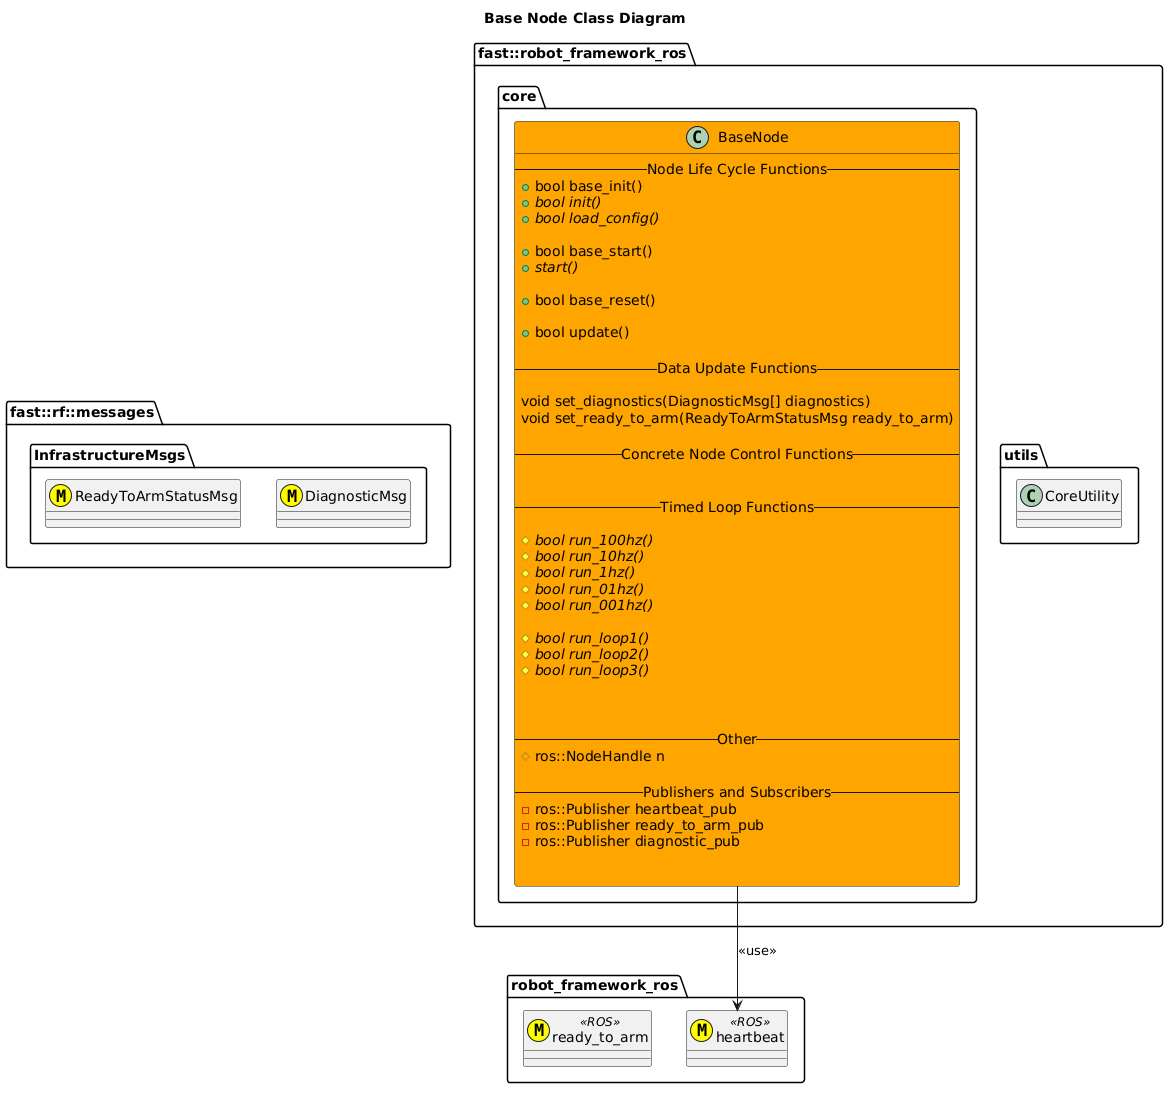
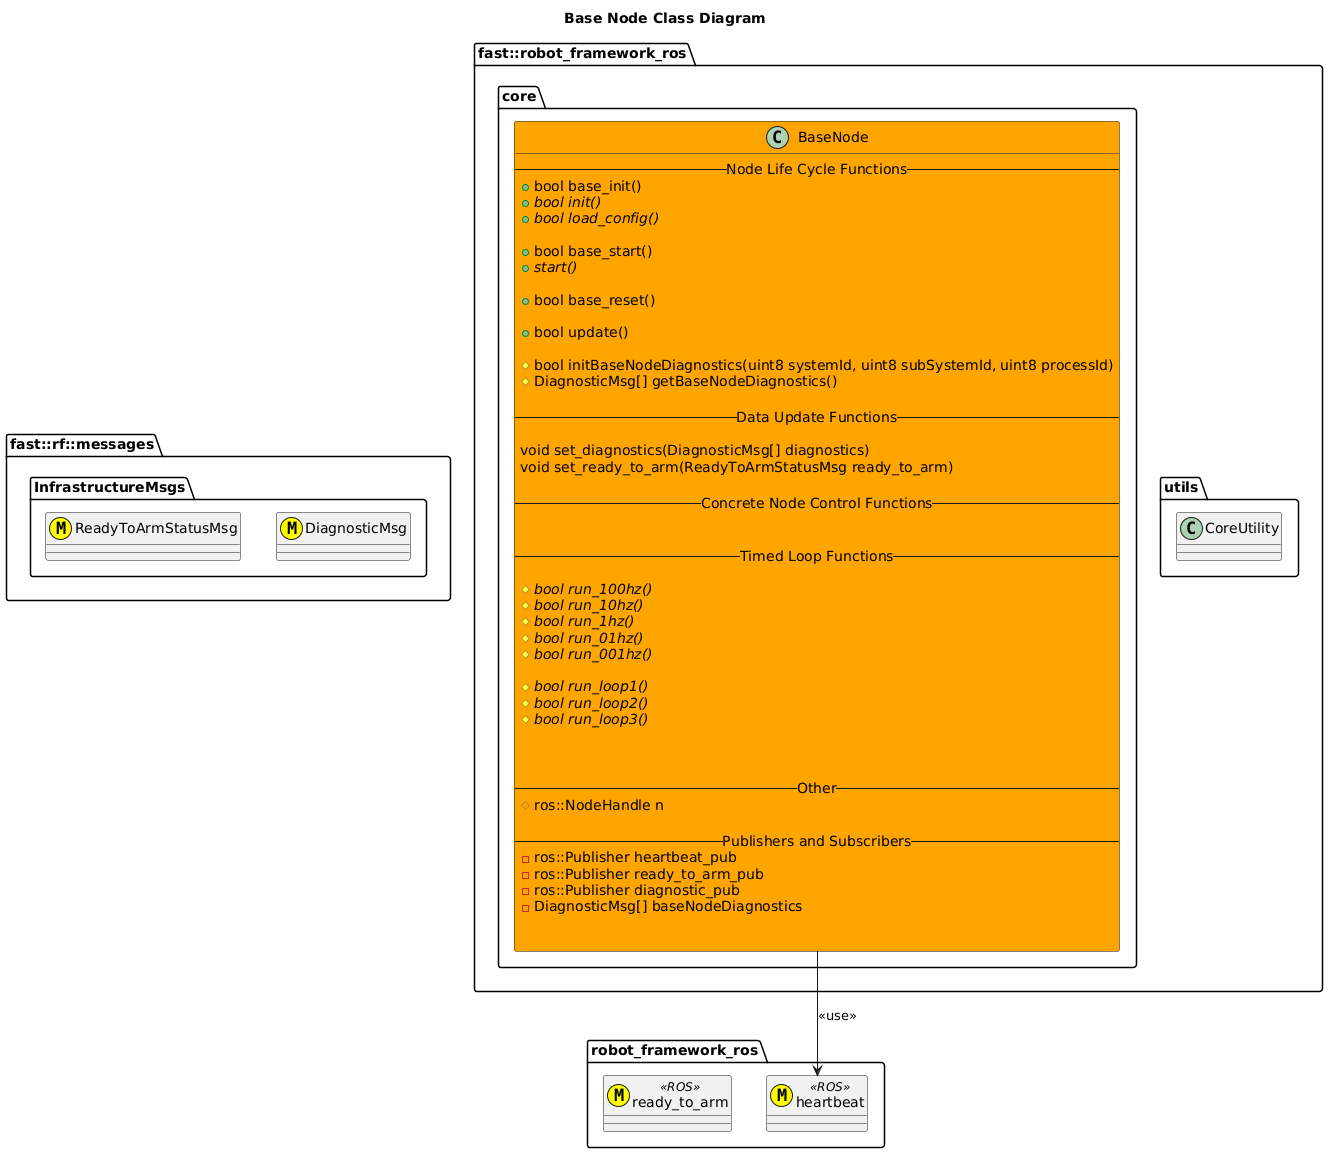
Looks like it's working ok.

Changed region(s): [[0.0, 0.0, 1.0, 0.9927], [0.5816, 0.6515, 0.6429, 0.6825]]

diff --git a/core/BaseNode/BaseNode.cpp b/core/BaseNode/BaseNode.cpp
@@ -1,7 +1,10 @@
 #include <Infrastructure/Logger.hpp>
+#include <mutex>
 #include <robot_framework_ros/BaseNode.hpp>
 #include <robot_framework_ros/utils/CoreUtility.hpp>
 #include <robot_framework_ros/utils/TranslateUtility.hpp>
+
+#include "RobotFrameworkDefinitions.hpp"
 namespace fast::rf_ros {
     std::string BaseNode::pretty() {
         std::string str = "Node State: " + fast::rf_ros::utils::CoreUtility::pretty(node_state);
@@ -64,6 +67,41 @@ namespace fast::rf_ros {
         std::string config_path = get_robotnamespace() + "config/" + system_id_str + "/" + subsystem_id_str + "/" +
                                   process_id_str + "/" + read_base_nodename();
         return config_path;
+    }
+    bool BaseNode::initBaseNodeDiagnostics(uint8_t systemId, uint8_t subSystemId, uint8_t processId) {
+        {
+            fast::rf::messages::InfrastructureMsgs::DiagnosticMsg diagnostic(
+                systemId, subSystemId, processId, fast::rf::DiagnosticDefinition::DiagnosticType::TIMING);
+            m_baseNodeDiagnostics.emplace(std::pair<fast::rf::DiagnosticDefinition::DiagnosticType,
+                                                    fast::rf::messages::InfrastructureMsgs::DiagnosticMsg>(
+                diagnostic.diagnosticType, diagnostic));
+        }
+        return true;
+    }
+    bool BaseNode::checkTimingDiagnostic(std::string loopName, double runTimeSec, uint64_t cycleCount,
+                                         double expectedRate) {
+        std::lock_guard<std::mutex> guard(m_timingDiagnosticMutex);
+        double actualLoopRate = (double)(cycleCount) / runTimeSec;
+        double slowDownFactor = expectedRate / actualLoopRate;
+        if (slowDownFactor > ERROR_LOOPRATE_SLOWDOWN_FACTOR) {
+            m_baseNodeDiagnostics[fast::rf::DiagnosticDefinition::DiagnosticType::TIMING].level =
+                fast::rf::Level::ERROR;
+            m_baseNodeDiagnostics[fast::rf::DiagnosticDefinition::DiagnosticType::TIMING].diagnosticMessage =
+                fast::rf::DiagnosticDefinition::DiagnosticMessage::DIAGNOSTIC_FAILED;
+            m_baseNodeDiagnostics[fast::rf::DiagnosticDefinition::DiagnosticType::TIMING].description =
+                "Loop: " + loopName + " is Slow.  Expected Rate: " + std::to_string(expectedRate) +
+                " Actual: " + std::to_string(actualLoopRate) + " Slowdown: " + std::to_string(slowDownFactor) + "X!";
+            return false;
+        } else if (slowDownFactor > WARN_LOOPRATE_SLOWDOWN_FACTOR) {
+            m_baseNodeDiagnostics[fast::rf::DiagnosticDefinition::DiagnosticType::TIMING].level = fast::rf::Level::WARN;
+            m_baseNodeDiagnostics[fast::rf::DiagnosticDefinition::DiagnosticType::TIMING].diagnosticMessage =
+                fast::rf::DiagnosticDefinition::DiagnosticMessage::DIAGNOSTIC_FAILED;
+            m_baseNodeDiagnostics[fast::rf::DiagnosticDefinition::DiagnosticType::TIMING].description =
+                "Loop: " + loopName + " is Very Slow.  Expected Rate: " + std::to_string(expectedRate) +
+                " Actual: " + std::to_string(actualLoopRate) + " Slowdown: " + std::to_string(slowDownFactor) + "X!";
+            return false;
+        }
+        return true;
     }
     bool BaseNode::base_init() {
         bool status = request_node_statechange(robot_framework_ros::nodestate::STATE_INITIALIZING, false);
@@ -151,6 +189,10 @@ namespace fast::rf_ros {
     }
     bool BaseNode::base_start() {
         startTime = ros::Time::now();
+        if (m_baseNodeDiagnostics.size() == 0) {
+            fast::rf::Logger::logError("Base Node Diagnostics Not Initialized!");
+            return false;
+        }
         bool status = request_node_statechange(robot_framework_ros::nodestate::STATE_STARTING, false);
         last_100hz_timer = ros::Time::now();
         last_10hz_timer = ros::Time::now();
@@ -191,14 +233,14 @@ namespace fast::rf_ros {
         mtime = utils::CoreUtility::measure_time_diff(ros::Time::now(), last_10hz_timer);
         if (mtime >= 0.1) {  // 0.1 Seconds
             base_run_10hz();
-            m_loop10HzCyles++;
+            m_loop10HzCycles++;
             last_10hz_timer = ros::Time::now();
         }
 
         mtime = utils::CoreUtility::measure_time_diff(ros::Time::now(), last_1hz_timer);
         if (mtime >= 1.0) {  // 1.0 Seconds
             base_run_1hz();
-            m_loop1Cycles++;
+            m_loop1HzCycles++;
             last_1hz_timer = ros::Time::now();
         }
 
@@ -277,24 +319,50 @@ namespace fast::rf_ros {
 
         // Check Loop Rate for timing issues
         double runTimeSec = utils::CoreUtility::measure_time_diff(ros::Time::now(), startTime);
+        bool timingOk = true;
         uint16_t minLoopCountToWait = 5;
+        if (m_loop001HzCycles > minLoopCountToWait) {
+            timingOk &= checkTimingDiagnostic("loop001Hz", runTimeSec, m_loop001HzCycles, 0.01);
+        }
+        if (m_loop01HzCycles > minLoopCountToWait) {
+            timingOk &= checkTimingDiagnostic("loop01Hz", runTimeSec, m_loop01HzCycles, 0.1);
+        }
+        if (m_loop1HzCycles > minLoopCountToWait) {
+            timingOk &= checkTimingDiagnostic("loop1Hz", runTimeSec, m_loop1HzCycles, 1.0);
+        }
+        if (m_loop10HzCycles > minLoopCountToWait) {
+            timingOk &= checkTimingDiagnostic("loop10Hz", runTimeSec, m_loop10HzCycles, 10.0);
+        }
+        if (m_loop100HzCycles > minLoopCountToWait) {
+            timingOk &= checkTimingDiagnostic("loop100Hz", runTimeSec, m_loop100HzCycles, 100.0);
+        }
+        if (loop2_enabled == true) {
+            if (m_loop1Cycles > minLoopCountToWait) {
+                timingOk &= checkTimingDiagnostic("loop1", runTimeSec, m_loop1Cycles, loop1_rate);
+            }
+        }
         if (loop2_enabled == true) {
             if (m_loop2Cycles > minLoopCountToWait) {
-                double actualLoop2Rate = (double)(m_loop2Cycles) / runTimeSec;
-                double factorOff = loop2_rate / actualLoop2Rate;
-                if (factorOff > ERROR_LOOPRATE_SLOWDOWN_FACTOR) {
-                    fast::rf::Logger::logError("Expected Rate: " + std::to_string(loop2_rate) +
-                                               " Actual: " + std::to_string(actualLoop2Rate) +
-                                               " Factor: " + std::to_string(factorOff));
-                } else if (factorOff > WARN_LOOPRATE_SLOWDOWN_FACTOR) {
-                    fast::rf::Logger::logWarn("Expected Rate: " + std::to_string(loop2_rate) +
-                                              " Actual: " + std::to_string(actualLoop2Rate) +
-                                              " Factor: " + std::to_string(factorOff));
-                }
+                timingOk &= checkTimingDiagnostic("loop2", runTimeSec, m_loop2Cycles, loop2_rate);
             }
+        }
+        if (loop3_enabled == true) {
+            if (m_loop3Cycles > minLoopCountToWait) {
+                timingOk &= checkTimingDiagnostic("loop3", runTimeSec, m_loop3Cycles, loop3_rate);
+            }
+        }
+        if (timingOk) {
+            std::lock_guard<std::mutex> guard(m_timingDiagnosticMutex);
+            m_baseNodeDiagnostics[fast::rf::DiagnosticDefinition::DiagnosticType::TIMING].level =
+                fast::rf::Level::NOERROR;
+            m_baseNodeDiagnostics[fast::rf::DiagnosticDefinition::DiagnosticType::TIMING].diagnosticMessage =
+                fast::rf::DiagnosticDefinition::DiagnosticMessage::NOERROR;
+            m_baseNodeDiagnostics[fast::rf::DiagnosticDefinition::DiagnosticType::TIMING].description =
+                "Loop Timing Ok.";
         }
         return status;
     }
+
     bool BaseNode::base_run_001hz() { return run_001hz(); }
     bool BaseNode::request_node_statechange(uint8_t new_state, bool override) {
         uint8_t current_state = node_state.state;

diff --git a/include/robot_framework_ros/BaseNode.hpp b/include/robot_framework_ros/BaseNode.hpp
@@ -284,11 +284,29 @@ namespace fast::rf_ros {
         void set_ready_to_arm(fast::rf::messages::InfrastructureMsgs::ReadyToArmStatusMsg ready_to_arm) {
             ready_to_arm_ = ready_to_arm;
         }
+        bool initBaseNodeDiagnostics(uint8_t systemId, uint8_t subSystemId, uint8_t processId);
+        std::map<fast::rf::DiagnosticDefinition::DiagnosticType, fast::rf::messages::InfrastructureMsgs::DiagnosticMsg>
+        getBaseNodeDiagnostics() {
+            return m_baseNodeDiagnostics;
+        }
+
         boost::shared_ptr<ros::NodeHandle> n;  //!< Node Handle
 
         // Concrete Node Controls
 
        private:
+        /**
+         * @brief Checks Timing Diagnostic
+         *
+         * @param loopName
+         * @param runTimeSec
+         * @param cycleCount
+         * @param expectedRate
+         * @return true if no error
+         * @return false if a warn or an error was found in the timing analysis
+         */
+        bool checkTimingDiagnostic(std::string loopName, double runTimeSec, uint64_t cycleCount, double expectedRate);
+
         ros::Time startTime;
         bool ready_to_arm_publish_enabled{true};
         robot_framework_ros::nodestate node_state;
@@ -315,7 +333,7 @@ namespace fast::rf_ros {
         ros::Time last_100hz_timer;
         uint64_t m_loop100HzCycles{0};
         ros::Time last_10hz_timer;
-        uint64_t m_loop10HzCyles{0};
+        uint64_t m_loop10HzCycles{0};
         ros::Time last_1hz_timer;
         uint64_t m_loop1HzCycles{0};
         ros::Time last_01hz_timer;
@@ -329,9 +347,11 @@ namespace fast::rf_ros {
         ros::Time last_loop3_timer;
         uint64_t m_loop3Cycles{0};
 
-        std::vector<std::string> warningLoopTimingMessages;
-        std::vector<std::string> errorLoopTimingMessages;
+        std::map<fast::rf::DiagnosticDefinition::DiagnosticType, fast::rf::messages::InfrastructureMsgs::DiagnosticMsg>
+            m_baseNodeDiagnostics;
         std::vector<fast::rf::messages::InfrastructureMsgs::DiagnosticMsg> diagnostics_;
         fast::rf::messages::InfrastructureMsgs::ReadyToArmStatusMsg ready_to_arm_;
+
+        std::mutex m_timingDiagnosticMutex;
     };
 }  // namespace fast::rf_ros

diff --git a/Systems/Pose/Subsystems/InertialSensor/Nodes/IMU/IMUNode.cpp b/Systems/Pose/Subsystems/InertialSensor/Nodes/IMU/IMUNode.cpp
@@ -147,7 +147,11 @@ namespace fast::rf_ros::PoseSystem::InertialSensorSubsystem::IMU {
             fast::rf::Logger::logError("Unable to initialize Process with IMU: " + imu_type);
             return false;
         }
-
+        status = initBaseNodeDiagnostics(process.getSystemId(), process.getSubSystemId(), process.getProcessId());
+        if (status == false) {
+            fast::rf::Logger::logError("Unable to initialize Base Node Diagnostics!");
+            return false;
+        }
         return status;
     }
     bool IMUNode::start() {
@@ -160,7 +164,6 @@ namespace fast::rf_ros::PoseSystem::InertialSensorSubsystem::IMU {
         return true;
     }
     bool IMUNode::run_loop2() {
-        std::this_thread::sleep_for(std::chrono::milliseconds(100));
         {
             fast::rf::messages::SensorMsgs::ImuMsg data;
             if (process.get_imu_data(data)) {
@@ -198,6 +201,11 @@ namespace fast::rf_ros::PoseSystem::InertialSensorSubsystem::IMU {
         return true;
     }
     bool IMUNode::run_01hz() {
+        auto baseNodeDiagnostics = getBaseNodeDiagnostics();
+        for (auto it : baseNodeDiagnostics) {
+            process.updateDiagnostic(it.second.diagnosticType, it.second.level, it.second.diagnosticMessage,
+                                     it.second.description);
+        }
         fast::rf::Logger::logInfo(process.pretty());
         fast::rf::Logger::logInfo(pretty());
         return true;
